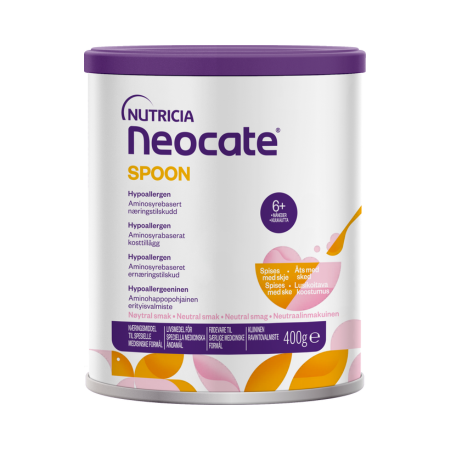
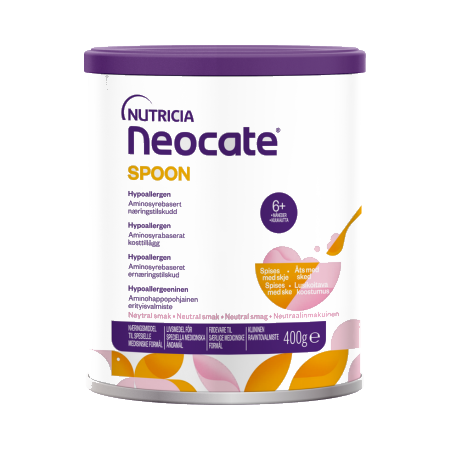
fix(melkeerstatning): remove white background from Neocate Spoon image, restore imageScale to 0.9

Changed region(s): [[0.1867, 0.1556, 0.8089, 0.8711]]

diff --git a/stotteverktoyene/src/features/produktograd/components/MelkeerstatningTab.tsx b/stotteverktoyene/src/features/produktograd/components/MelkeerstatningTab.tsx
@@ -652,7 +652,7 @@ const NEOCATE_SPOON: Product = {
   tagline: "Aminosyrebasert næringstilskudd for barn med kumelkallergi og multimatvareallergi. Glutenfri. Laktosefri.",
   description: "Aminosyrebasert næringstilskudd i pulverform. Hypoallergen. Energitetthet 1,75 kcal/ml. Egnet for barn som tilvennes fast føde. Skal ikke brukes som eneste næringskilde.",
   image: "/nutrition/Nutricia-Neocate-Spoon.png",
-  imageScale: 0.7,
+  imageScale: 0.9,
   type: "Aminosyrebasert",
   badges: [
     { label: "Aminosyrebasert",         color: "#3B82F6", icon: "drop"   },
